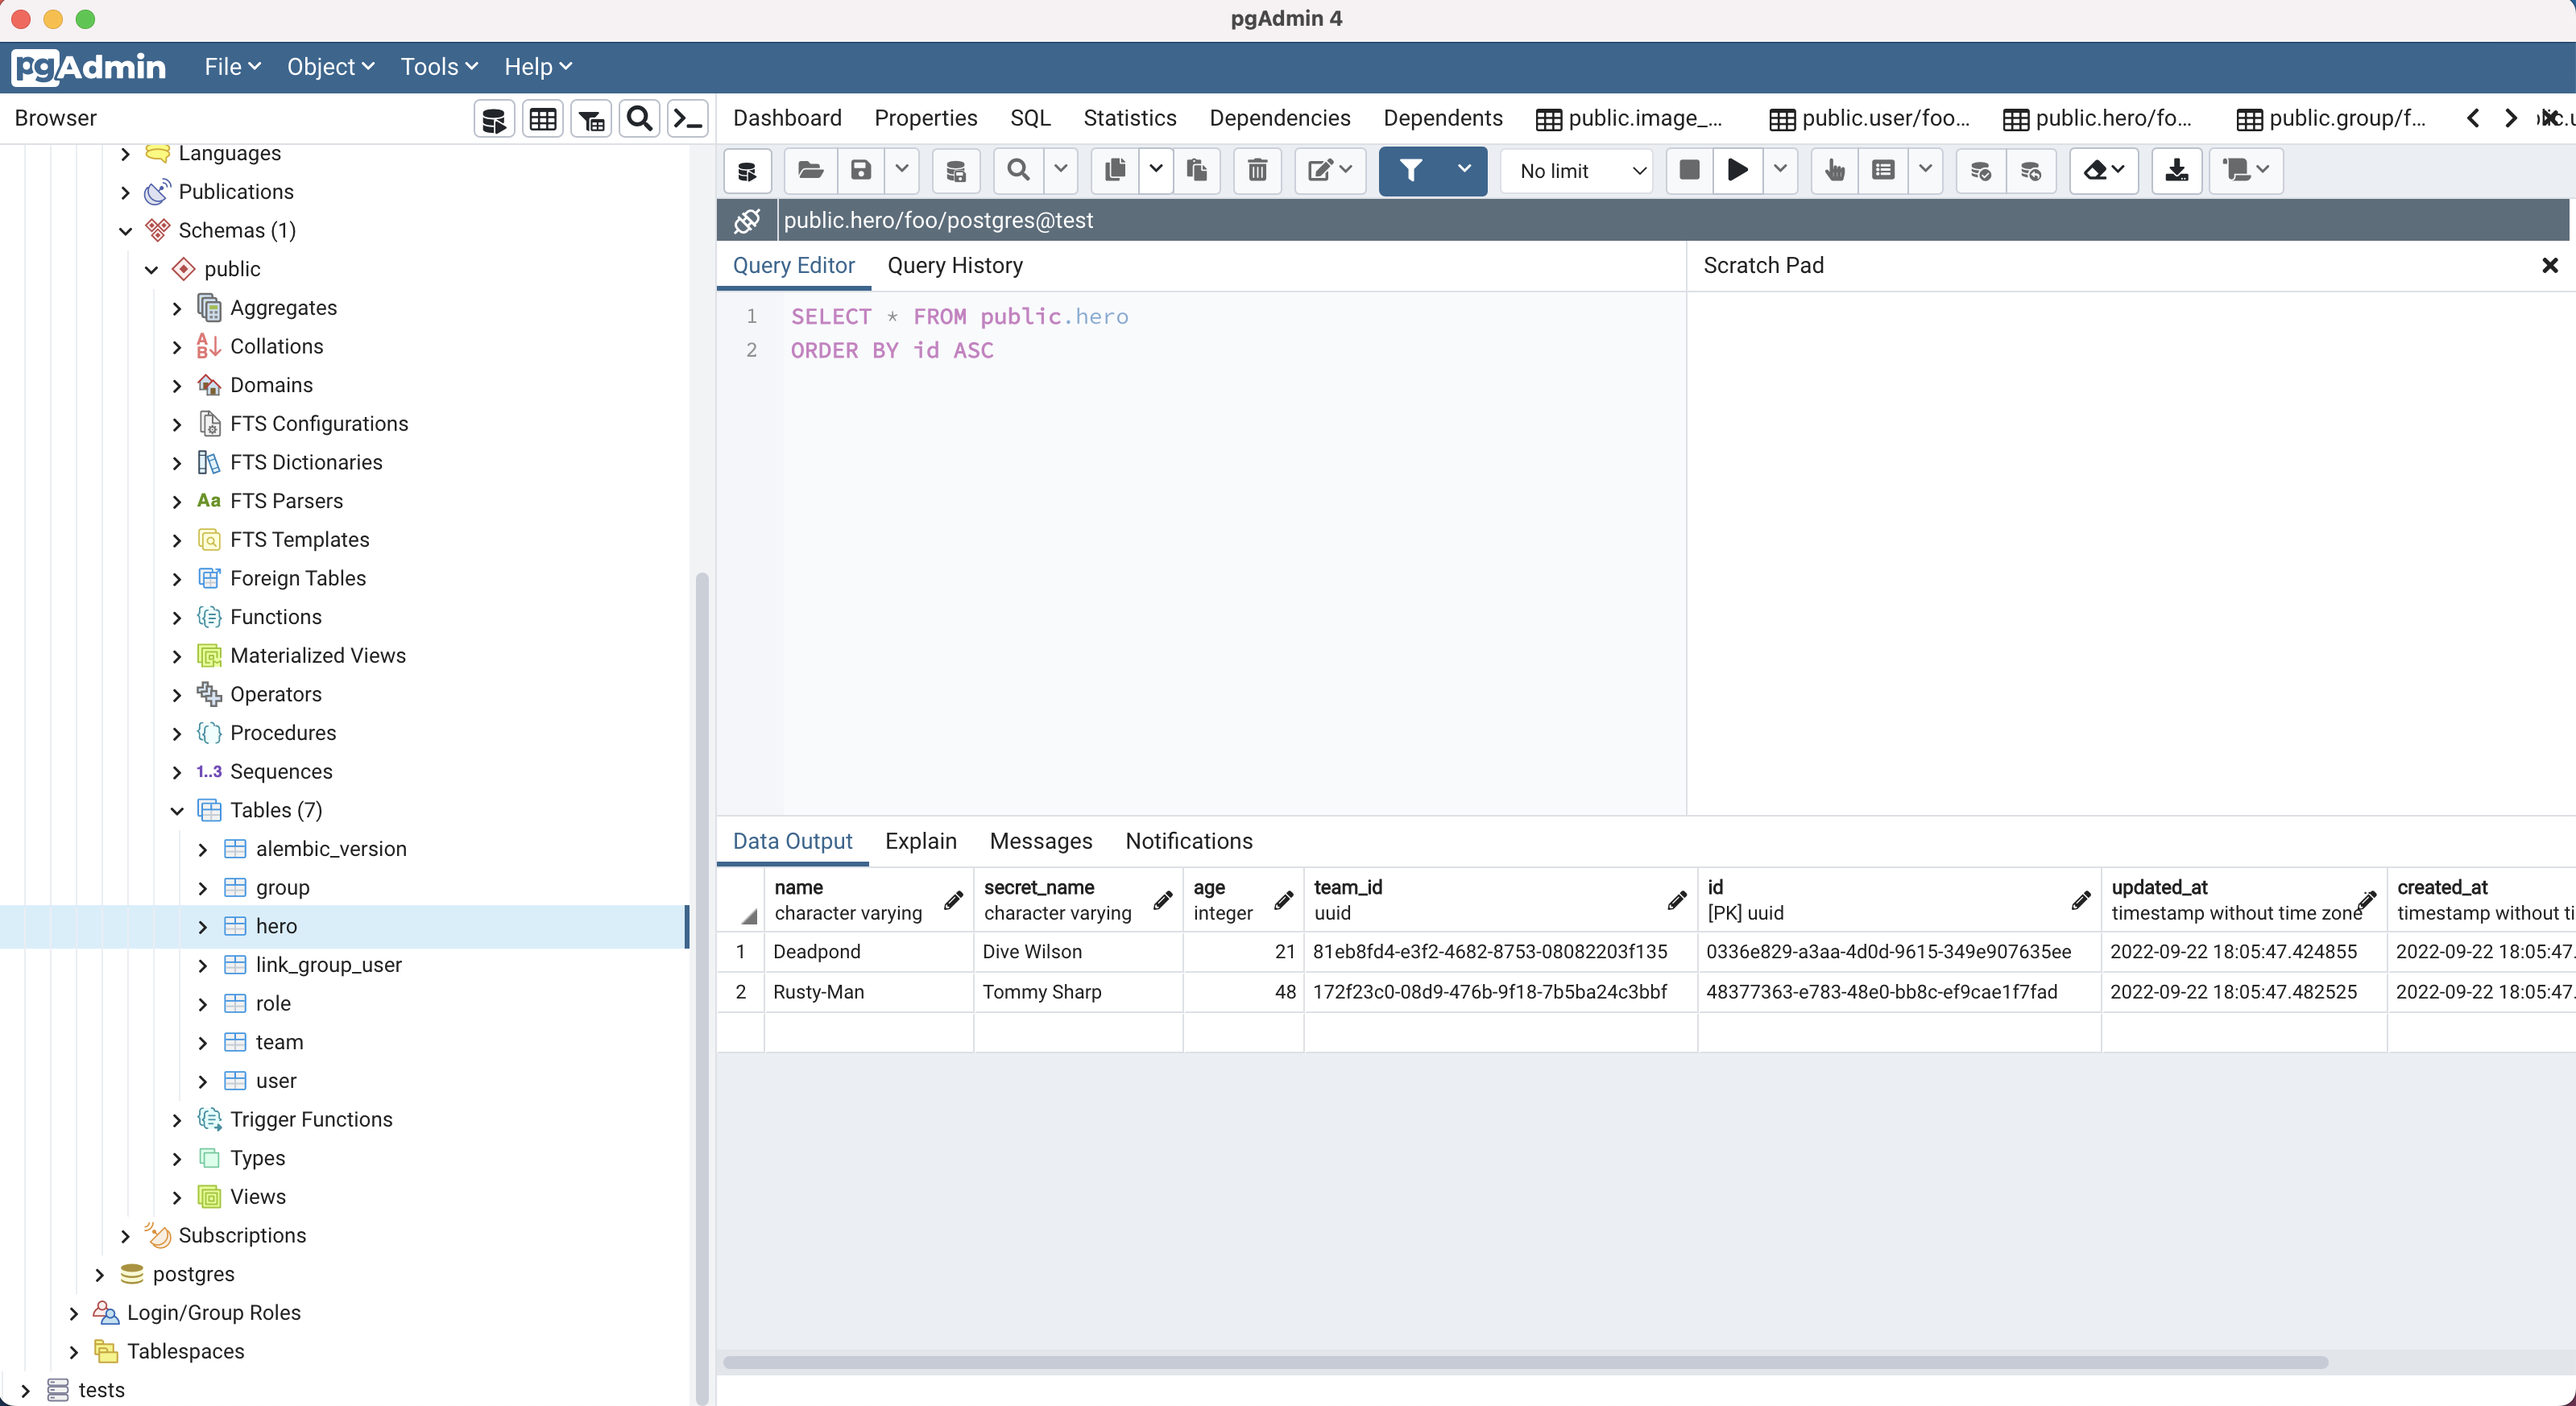
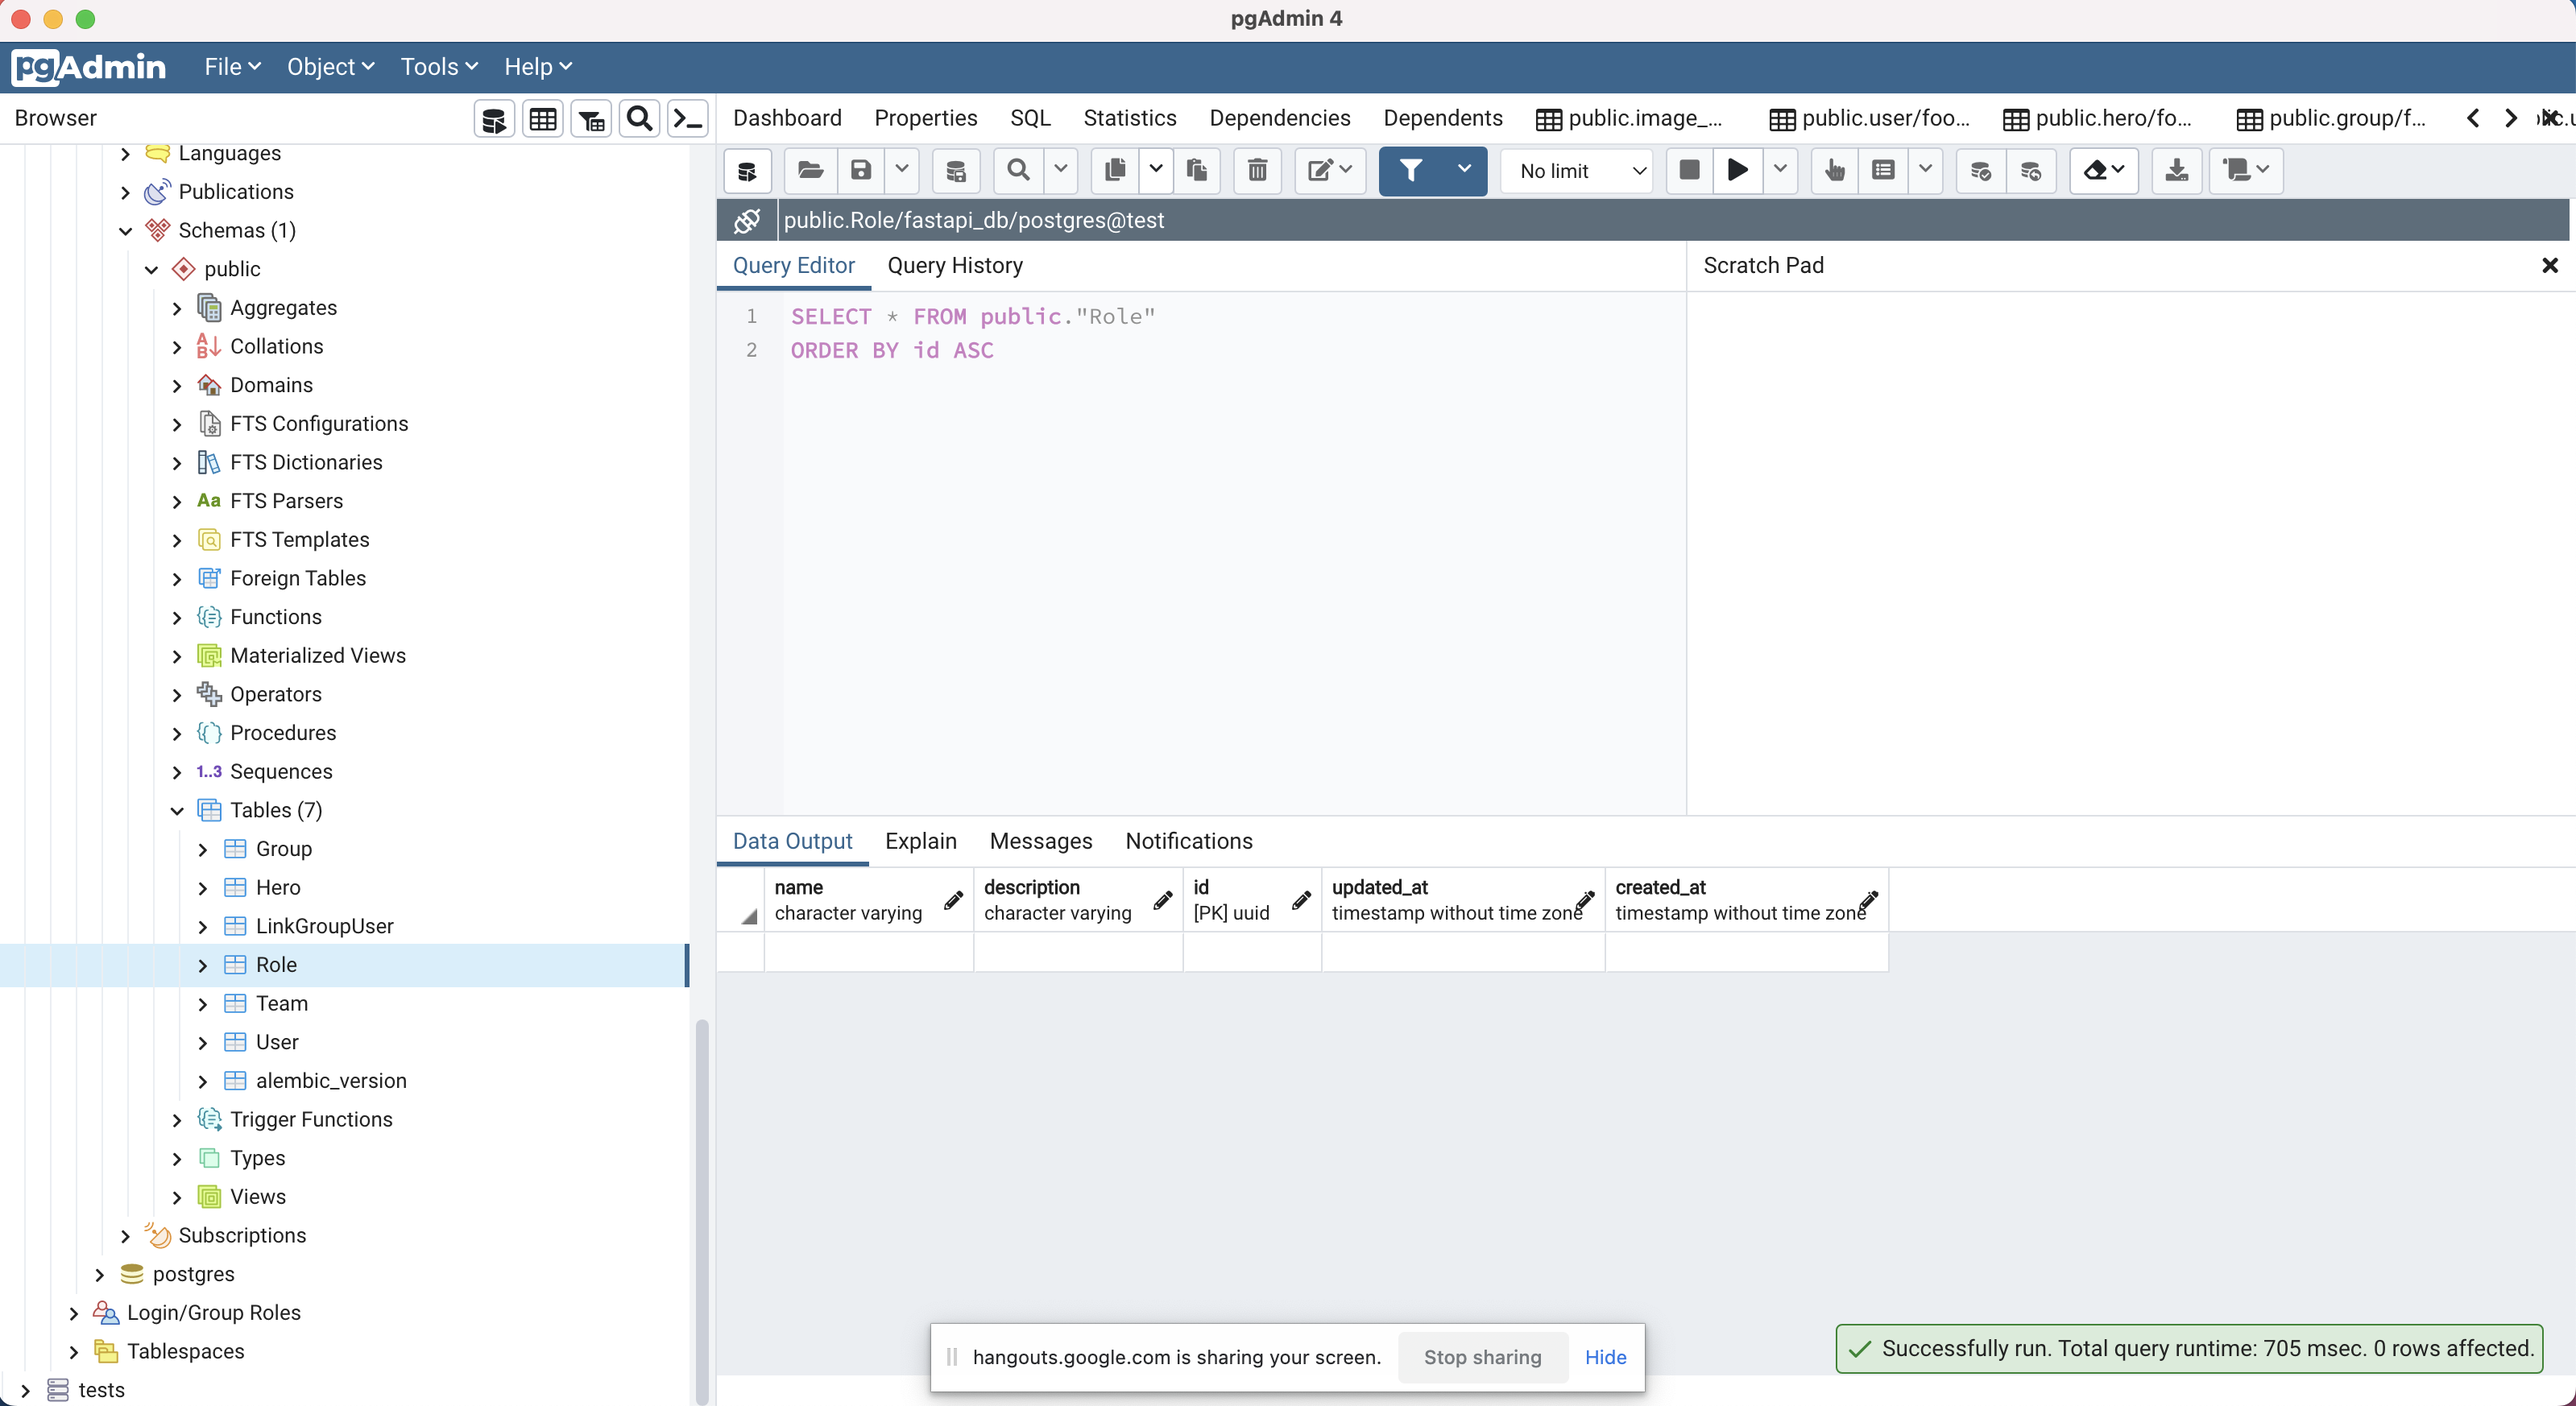
Use pascal case for table name format

diff --git a/fastapi-alembic-sqlmodel-async/alembic/versions/669125bdb1f0_.py b/fastapi-alembic-sqlmodel-async/alembic/versions/669125bdb1f0_.py
@@ -1,8 +1,8 @@
 """empty message
 
-Revision ID: c00b57daea0b
+Revision ID: 669125bdb1f0
 Revises: 
-Create Date: 2022-09-22 18:05:30.331093
+Create Date: 2022-09-22 19:58:54.879772
 
 """
 from alembic import op
@@ -12,7 +12,7 @@ import sqlmodel # added
 
 
 # revision identifiers, used by Alembic.
-revision = 'c00b57daea0b'
+revision = '669125bdb1f0'
 down_revision = None
 branch_labels = None
 depends_on = None
@@ -20,7 +20,7 @@ depends_on = None
 
 def upgrade():
     # ### commands auto generated by Alembic - please adjust! ###
-    op.create_table('role',
+    op.create_table('Role',
     sa.Column('name', sqlmodel.sql.sqltypes.AutoString(), nullable=False),
     sa.Column('description', sqlmodel.sql.sqltypes.AutoString(), nullable=False),
     sa.Column('id', sqlmodel.sql.sqltypes.GUID(), nullable=False),
@@ -28,8 +28,8 @@ def upgrade():
     sa.Column('created_at', sa.DateTime(), nullable=True),
     sa.PrimaryKeyConstraint('id')
     )
-    op.create_index(op.f('ix_role_id'), 'role', ['id'], unique=False)
-    op.create_table('user',
+    op.create_index(op.f('ix_Role_id'), 'Role', ['id'], unique=False)
+    op.create_table('User',
     sa.Column('birthdate', sa.DateTime(timezone=True), nullable=True),
     sa.Column('first_name', sqlmodel.sql.sqltypes.AutoString(), nullable=False),
     sa.Column('last_name', sqlmodel.sql.sqltypes.AutoString(), nullable=False),
@@ -45,36 +45,36 @@ def upgrade():
     sa.Column('created_at', sa.DateTime(), nullable=True),
     sa.Column('hashed_password', sqlmodel.sql.sqltypes.AutoString(), nullable=False),
     sa.Column('role_id', sqlmodel.sql.sqltypes.GUID(), nullable=True),
-    sa.ForeignKeyConstraint(['role_id'], ['role.id'], ),
+    sa.ForeignKeyConstraint(['role_id'], ['Role.id'], ),
     sa.PrimaryKeyConstraint('id')
     )
-    op.create_index(op.f('ix_user_email'), 'user', ['email'], unique=True)
-    op.create_index(op.f('ix_user_hashed_password'), 'user', ['hashed_password'], unique=False)
-    op.create_index(op.f('ix_user_id'), 'user', ['id'], unique=False)
-    op.create_table('group',
+    op.create_index(op.f('ix_User_email'), 'User', ['email'], unique=True)
+    op.create_index(op.f('ix_User_hashed_password'), 'User', ['hashed_password'], unique=False)
+    op.create_index(op.f('ix_User_id'), 'User', ['id'], unique=False)
+    op.create_table('Group',
     sa.Column('name', sqlmodel.sql.sqltypes.AutoString(), nullable=False),
     sa.Column('description', sqlmodel.sql.sqltypes.AutoString(), nullable=False),
     sa.Column('id', sqlmodel.sql.sqltypes.GUID(), nullable=False),
     sa.Column('updated_at', sa.DateTime(), nullable=True),
     sa.Column('created_at', sa.DateTime(), nullable=True),
     sa.Column('created_by_id', sqlmodel.sql.sqltypes.GUID(), nullable=True),
-    sa.ForeignKeyConstraint(['created_by_id'], ['user.id'], ),
+    sa.ForeignKeyConstraint(['created_by_id'], ['User.id'], ),
     sa.PrimaryKeyConstraint('id')
     )
-    op.create_index(op.f('ix_group_id'), 'group', ['id'], unique=False)
-    op.create_table('team',
+    op.create_index(op.f('ix_Group_id'), 'Group', ['id'], unique=False)
+    op.create_table('Team',
     sa.Column('name', sqlmodel.sql.sqltypes.AutoString(), nullable=False),
     sa.Column('headquarters', sqlmodel.sql.sqltypes.AutoString(), nullable=False),
     sa.Column('id', sqlmodel.sql.sqltypes.GUID(), nullable=False),
     sa.Column('updated_at', sa.DateTime(), nullable=True),
     sa.Column('created_at', sa.DateTime(), nullable=True),
     sa.Column('created_by_id', sqlmodel.sql.sqltypes.GUID(), nullable=True),
-    sa.ForeignKeyConstraint(['created_by_id'], ['user.id'], ),
+    sa.ForeignKeyConstraint(['created_by_id'], ['User.id'], ),
     sa.PrimaryKeyConstraint('id')
     )
-    op.create_index(op.f('ix_team_id'), 'team', ['id'], unique=False)
-    op.create_index(op.f('ix_team_name'), 'team', ['name'], unique=False)
-    op.create_table('hero',
+    op.create_index(op.f('ix_Team_id'), 'Team', ['id'], unique=False)
+    op.create_index(op.f('ix_Team_name'), 'Team', ['name'], unique=False)
+    op.create_table('Hero',
     sa.Column('name', sqlmodel.sql.sqltypes.AutoString(), nullable=False),
     sa.Column('secret_name', sqlmodel.sql.sqltypes.AutoString(), nullable=False),
     sa.Column('age', sa.Integer(), nullable=True),
@@ -83,42 +83,42 @@ def upgrade():
     sa.Column('updated_at', sa.DateTime(), nullable=True),
     sa.Column('created_at', sa.DateTime(), nullable=True),
     sa.Column('created_by_id', sqlmodel.sql.sqltypes.GUID(), nullable=True),
-    sa.ForeignKeyConstraint(['created_by_id'], ['user.id'], ),
-    sa.ForeignKeyConstraint(['team_id'], ['team.id'], ),
+    sa.ForeignKeyConstraint(['created_by_id'], ['User.id'], ),
+    sa.ForeignKeyConstraint(['team_id'], ['Team.id'], ),
     sa.PrimaryKeyConstraint('id')
     )
-    op.create_index(op.f('ix_hero_age'), 'hero', ['age'], unique=False)
-    op.create_index(op.f('ix_hero_id'), 'hero', ['id'], unique=False)
-    op.create_index(op.f('ix_hero_name'), 'hero', ['name'], unique=False)
-    op.create_table('link_group_user',
+    op.create_index(op.f('ix_Hero_age'), 'Hero', ['age'], unique=False)
+    op.create_index(op.f('ix_Hero_id'), 'Hero', ['id'], unique=False)
+    op.create_index(op.f('ix_Hero_name'), 'Hero', ['name'], unique=False)
+    op.create_table('LinkGroupUser',
     sa.Column('id', sqlmodel.sql.sqltypes.GUID(), nullable=False),
     sa.Column('group_id', sqlmodel.sql.sqltypes.GUID(), nullable=False),
     sa.Column('user_id', sqlmodel.sql.sqltypes.GUID(), nullable=False),
-    sa.ForeignKeyConstraint(['group_id'], ['group.id'], ),
-    sa.ForeignKeyConstraint(['user_id'], ['user.id'], ),
+    sa.ForeignKeyConstraint(['group_id'], ['Group.id'], ),
+    sa.ForeignKeyConstraint(['user_id'], ['User.id'], ),
     sa.PrimaryKeyConstraint('id', 'group_id', 'user_id')
     )
-    op.create_index(op.f('ix_link_group_user_id'), 'link_group_user', ['id'], unique=False)
+    op.create_index(op.f('ix_LinkGroupUser_id'), 'LinkGroupUser', ['id'], unique=False)
     # ### end Alembic commands ###
 
 
 def downgrade():
     # ### commands auto generated by Alembic - please adjust! ###
-    op.drop_index(op.f('ix_link_group_user_id'), table_name='link_group_user')
-    op.drop_table('link_group_user')
-    op.drop_index(op.f('ix_hero_name'), table_name='hero')
-    op.drop_index(op.f('ix_hero_id'), table_name='hero')
-    op.drop_index(op.f('ix_hero_age'), table_name='hero')
-    op.drop_table('hero')
-    op.drop_index(op.f('ix_team_name'), table_name='team')
-    op.drop_index(op.f('ix_team_id'), table_name='team')
-    op.drop_table('team')
-    op.drop_index(op.f('ix_group_id'), table_name='group')
-    op.drop_table('group')
-    op.drop_index(op.f('ix_user_id'), table_name='user')
-    op.drop_index(op.f('ix_user_hashed_password'), table_name='user')
-    op.drop_index(op.f('ix_user_email'), table_name='user')
-    op.drop_table('user')
-    op.drop_index(op.f('ix_role_id'), table_name='role')
-    op.drop_table('role')
+    op.drop_index(op.f('ix_LinkGroupUser_id'), table_name='LinkGroupUser')
+    op.drop_table('LinkGroupUser')
+    op.drop_index(op.f('ix_Hero_name'), table_name='Hero')
+    op.drop_index(op.f('ix_Hero_id'), table_name='Hero')
+    op.drop_index(op.f('ix_Hero_age'), table_name='Hero')
+    op.drop_table('Hero')
+    op.drop_index(op.f('ix_Team_name'), table_name='Team')
+    op.drop_index(op.f('ix_Team_id'), table_name='Team')
+    op.drop_table('Team')
+    op.drop_index(op.f('ix_Group_id'), table_name='Group')
+    op.drop_table('Group')
+    op.drop_index(op.f('ix_User_id'), table_name='User')
+    op.drop_index(op.f('ix_User_hashed_password'), table_name='User')
+    op.drop_index(op.f('ix_User_email'), table_name='User')
+    op.drop_table('User')
+    op.drop_index(op.f('ix_Role_id'), table_name='Role')
+    op.drop_table('Role')
     # ### end Alembic commands ###

diff --git a/fastapi-alembic-sqlmodel-async/app/models/links_model.py b/fastapi-alembic-sqlmodel-async/app/models/links_model.py
@@ -4,5 +4,5 @@ from app.models.base_uuid_model import BaseJoinUUIDModel
 from uuid import UUID
 
 class LinkGroupUser(BaseJoinUUIDModel, table=True):
-    group_id: Optional[UUID] = Field(default=None, nullable=False, foreign_key="group.id", primary_key=True)
-    user_id: Optional[UUID] = Field(default=None, nullable=False, foreign_key="user.id", primary_key=True)
+    group_id: Optional[UUID] = Field(default=None, nullable=False, foreign_key="Group.id", primary_key=True)
+    user_id: Optional[UUID] = Field(default=None, nullable=False, foreign_key="User.id", primary_key=True)

diff --git a/fastapi-alembic-sqlmodel-async/app/models/group_model.py b/fastapi-alembic-sqlmodel-async/app/models/group_model.py
@@ -10,7 +10,7 @@ class GroupBase(SQLModel):
     description: str
 
 class Group(BaseUUIDModel, GroupBase, table=True):    
-    created_by_id: Optional[UUID] = Field(default=None, foreign_key="user.id")
+    created_by_id: Optional[UUID] = Field(default=None, foreign_key="User.id")
     created_by: "User" = Relationship(sa_relationship_kwargs={"lazy":"selectin", "primaryjoin":"Group.created_by_id==User.id"})    
     users: List["User"] = Relationship(back_populates="groups", link_model=LinkGroupUser, sa_relationship_kwargs={"lazy": "selectin"})
 

diff --git a/fastapi-alembic-sqlmodel-async/app/models/user_model.py b/fastapi-alembic-sqlmodel-async/app/models/user_model.py
@@ -22,6 +22,6 @@ class User(BaseUUIDModel, UserBase, table=True):
     hashed_password: str = Field(
         nullable=False, index=True
     )
-    role_id: Optional[UUID] = Field(default=None, foreign_key="role.id")
+    role_id: Optional[UUID] = Field(default=None, foreign_key="Role.id")
     role: Optional["Role"] = Relationship(back_populates="users", sa_relationship_kwargs={"lazy": "selectin"})
     groups: List["Group"] = Relationship(back_populates="users", link_model=LinkGroupUser, sa_relationship_kwargs={"lazy": "selectin"})

diff --git a/fastapi-alembic-sqlmodel-async/app/models/base_uuid_model.py b/fastapi-alembic-sqlmodel-async/app/models/base_uuid_model.py
@@ -1,6 +1,5 @@
 from typing import Optional
 import uuid as uuid_pkg
-from app.utils.snake_case_converter import snake_case
 from sqlmodel import SQLModel as _SQLModel, Field
 from sqlalchemy.orm import declared_attr
 from datetime import datetime
@@ -8,7 +7,7 @@ from datetime import datetime
 class SQLModel(_SQLModel):
     @declared_attr  # type: ignore
     def __tablename__(cls) -> str:
-        return snake_case(cls.__name__)
+        return cls.__name__
 
 class BaseUUIDModel(SQLModel):
     id: uuid_pkg.UUID = Field(

diff --git a/fastapi-alembic-sqlmodel-async/app/models/team_model.py b/fastapi-alembic-sqlmodel-async/app/models/team_model.py
@@ -10,5 +10,5 @@ class TeamBase(SQLModel):
 
 class Team(BaseUUIDModel, TeamBase, table=True):    
     heroes: List["Hero"] = Relationship(back_populates="team", sa_relationship_kwargs={"lazy": "selectin"})
-    created_by_id: Optional[UUID] = Field(default=None, foreign_key="user.id")
+    created_by_id: Optional[UUID] = Field(default=None, foreign_key="User.id")
     created_by: "User" = Relationship(sa_relationship_kwargs={"lazy":"selectin", "primaryjoin":"Team.created_by_id==User.id"})

diff --git a/fastapi-alembic-sqlmodel-async/app/models/hero_model.py b/fastapi-alembic-sqlmodel-async/app/models/hero_model.py
@@ -7,7 +7,7 @@ class HeroBase(SQLModel):
     name: str = Field(index=True)
     secret_name: str
     age: Optional[int] = Field(default=None, index=True)
-    team_id: Optional[UUID] = Field(default=None, foreign_key="team.id")
+    team_id: Optional[UUID] = Field(default=None, foreign_key="Team.id")
 
 class Hero(BaseUUIDModel, HeroBase, table=True):    
     team: Optional["Team"] = Relationship(back_populates="heroes", sa_relationship_kwargs={"lazy": "selectin"})

diff --git a/README.md b/README.md
@@ -104,7 +104,7 @@ docker compose up --build
 - [x] Add sample heroes, teams and groups on init db
 - [x] Add cache configuration using fastapi-cache2 and redis
 - [x] Create a global database pool of sessions to avoid to pass the session as dependency injection on each handle
-- [x] Refactor tablename so all tables are created using snake case
+- [x] Refactor tablename to Pascal case
 - [ ] Add one to one relationship sample
 - [ ] Install pg_trgm by code and add a query for smart search of users by name
 - [ ] Add Enum sample column
